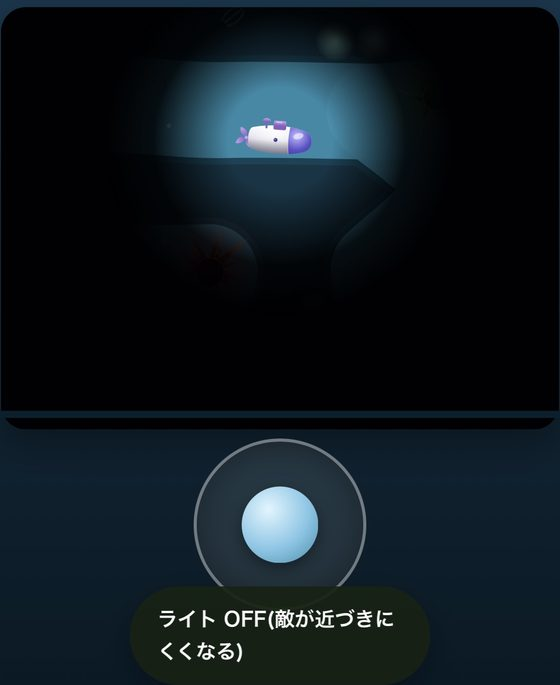
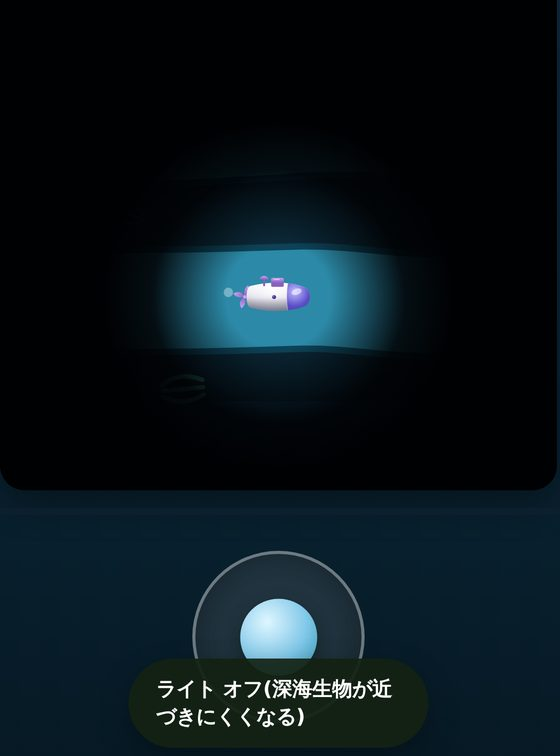
深海迷路: ライト切り替えの表示を「ライト オン/オフ」にする
「ライト ON」「ライト OFF(敵が近づきにくくなる)」を
「ライト オン」「ライト オフ(深海生物が近づきにくくなる)」に変える。
遊び方の3枚目は古い文言が写っていたので、新しい表示で撮り直した。

Claude-Session: https://claude.ai/code/session_01YLWASHK9tt9MHXWoG3tVef

Changed region(s): [[0.0, 0.0, 1.0, 0.5212], [0.0, 0.0613, 1.0, 0.981]]

diff --git a/line-puzzle/index.html b/line-puzzle/index.html
@@ -536,7 +536,7 @@
 <script src="bf-levels.js?v=104d74a0a3"></script>
 <script src="block-fit-puzzle.js?v=aadb9be076"></script>
 <script src="dsm-levels.js?v=76fb0ddcc8"></script>
-<script src="deep-sea-maze.js?v=cd8736b123"></script>
+<script src="deep-sea-maze.js?v=5b7f0a37fb"></script>
 <script src="game-select.js?v=6e6408bd2d"></script>
 <script src="game.js?v=b80f35766a"></script>
 </body>

diff --git a/line-puzzle/deep-sea-maze.js b/line-puzzle/deep-sea-maze.js
@@ -896,7 +896,7 @@
   function toggleLight() {
     if (!game) return;
     game.lightOn = !game.lightOn;
-    dsmToast(game.lightOn ? 'ライト ON' : 'ライト OFF(敵が近づきにくくなる)');
+    dsmToast(game.lightOn ? 'ライト オン' : 'ライト オフ(深海生物が近づきにくくなる)');
   }
 
   function onGoalReached() {
